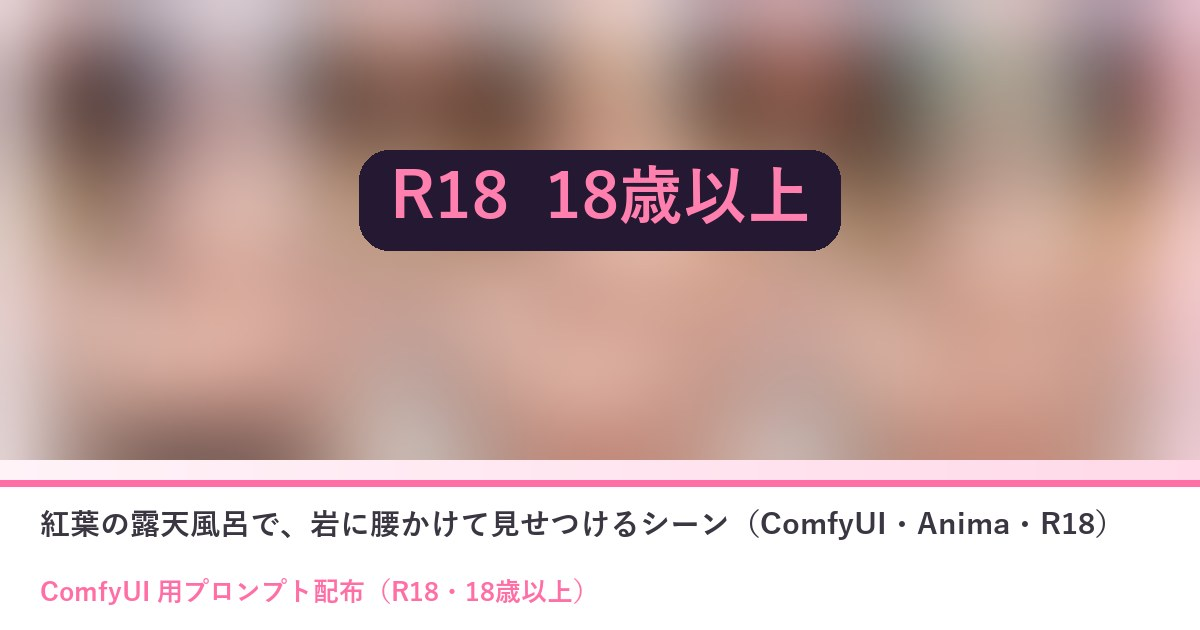
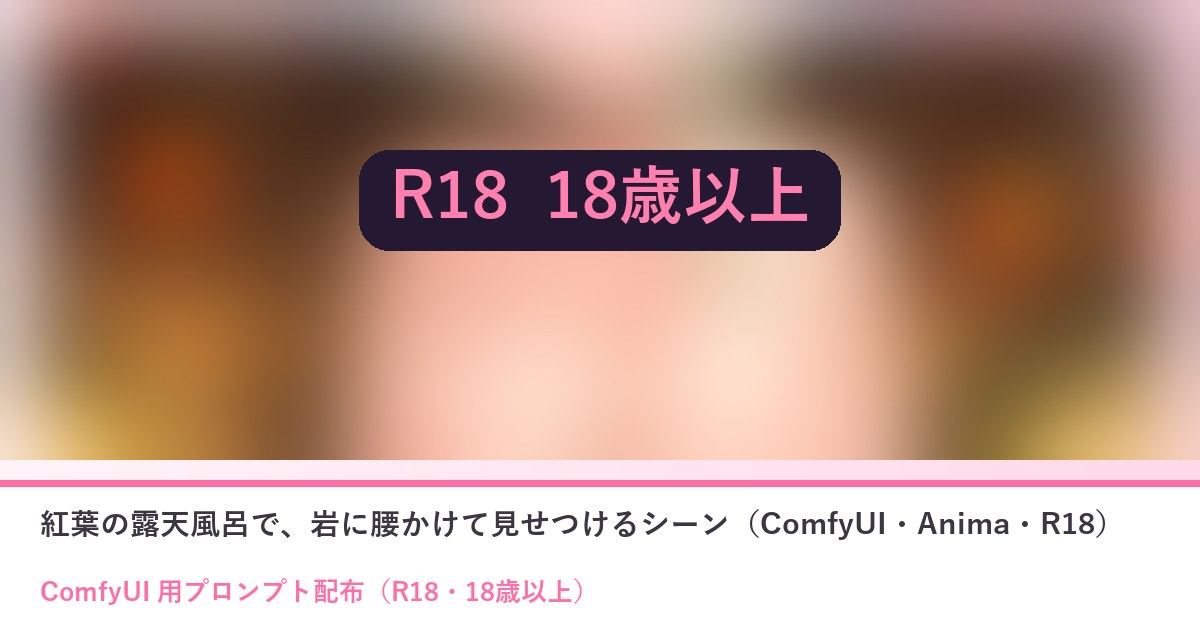
プロンプト配布 10/03 R18 を1枚・LoRA あり／なしに作り直し

diff --git a/prompts/2026-10-03-comfy-r18-qmvb9yul.html b/prompts/2026-10-03-comfy-r18-qmvb9yul.html
@@ -68,15 +68,17 @@
 @media(max-width:560px){.ps-ba{grid-template-columns:1fr}.ps-ba .arr{transform:rotate(90deg);text-align:center}.ps-vars,.ps-vars tbody,.ps-vars tr,.ps-vars th,.ps-vars td{display:block;width:auto;white-space:normal}.ps-vars tr:first-child{display:none}.ps-vars tr{border-bottom:1px solid var(--ps-line);padding:4px 0}.ps-vars th,.ps-vars td{border:0;padding:6px 12px}}
 .ps{overflow-wrap:anywhere}.ps-vars td,.ps-vars th{overflow-wrap:anywhere}.ps img{max-width:100%}
 </style>
-<!--ps-meta {"date": "2026-10-03", "title": "紅葉の露天風呂で、岩に腰かけて見せつけるシーン（ComfyUI・Anima・R18）", "kind": "comfy", "nsfw": true, "summary": "紅葉の露天風呂で、岩に腰かけて恥ずかしそうに見せてくれる夜の一枚（R18）。貼るだけで作れます。", "thumb": ""}-->
+<!--ps-meta {"date": "2026-10-03", "title": "紅葉の露天風呂で、岩に腰かけて見せつけるシーン（ComfyUI・Anima・R18）", "kind": "comfy", "nsfw": true, "summary": "紅葉の露天風呂で、岩に腰かけて恥ずかしそうに見せてくれる夜の一枚（R18）。LoRA あり／なしの2通り。", "thumb": ""}-->
 </head>
 <body>
 <div id="psgate" style="position:fixed;inset:0;z-index:50;background:rgba(36,24,50,.96);display:flex;align-items:center;justify-content:center;padding:20px"><div class="door" style="max-width:420px;background:#241832;color:#f6ecfa"><h2>ここから先は成人向けです</h2><p>18歳未満の方、苦手な方は開けずに戻ってください。</p><button class="gate-btn" id="psopen" type="button">18歳以上です</button></div></div><script>(function(){var g=document.getElementById('psgate');try{if(localStorage.getItem('hn_gate')==='1'){g.remove();return;}}catch(e){}document.getElementById('psopen').addEventListener('click',function(){try{localStorage.setItem('hn_gate','1');}catch(e){}g.remove();});})();</script><div class="sky"></div>
 <main class="wrap">
 <section class="sec"><div class="sec-head"><h2>紅葉の露天風呂で、岩に腰かけて見せつけるシーン（ComfyUI・Anima・R18）</h2><p>ひみつの眠り姫のプロンプト配布</p></div>
-<div class="ps"><p><span class="ps-badge">ComfyUI 用</span><span class="ps-badge">R18</span><span class="ps-badge">2026-10-03</span></p><p class="ps-lead">紅葉の舞う夜の露天風呂。湯けむりと灯籠の明かりの中、岩に腰かけて両手を膝に置き、恥ずかしそうに頬を染めながら脚をひらいて全部見せてくれる……濡れた肌がつやつや光る、いけないお風呂のシーンのプロンプトです（18歳以上の方だけ）。オリキャラがいなくても、そのまま貼るだけで綺麗な女の子で出ます。自分のキャラにしたいときは、1行目の見た目だけ書き換えてください。</p><nav class="ps-toc" aria-label="目次"><p>📑 目次</p><ol><li><a href="#sec1">3人のひそひそ話（R18）</a></li><li><a href="#sec2">使い方（3ステップ）</a></li><li><a href="#sec3">プロンプト</a></li><li><a href="#sec4">必要なもの（ComfyUI）</a></li><li><a href="#sec5">メモ</a></li><li><a href="#sec6">配布ルール</a></li><li><a href="#sec7">バックナンバー</a></li></ol></nav><div class="ps-r18"><b>🔞 18歳未満の方は閲覧・使用できません。</b><br>非合意の表現・幼く見える人物の性的な表現には使わないでください。このページには作例の絵を置いていません（文字のプロンプトだけです）。</div><h2 id="sec1">3人のひそひそ話（R18）</h2><div class="ps-chat"><div class="ic">ティ</div><div><div class="who">ティルナ</div><div class="bub">ねえねえ、紅葉の露天風呂で、岩に座ったまま脚をひらいて……恥ずかしそうに笑いながら、ぜんぶ見せてくれてるよ</div></div></div><div class="ps-chat r"><div class="ic">セフ</div><div><div class="who">セフィリア</div><div class="bub">湯けむりで濡れた肌が灯籠の明かりにつやつやと光って、脚のあいだまでとろりと濡れておりますね</div></div></div><div class="ps-chat r"><div class="ic">リリ</div><div><div class="who">リリア</div><div class="bub">1行目の髪の色を書き換えるだけで、金髪の三つ編みにも、黒髪のショートにもなりますの。オリキャラがいなくても、そのままで綺麗に出ますわ</div></div></div><div class="ps-chat"><div class="ic">ティ</div><div><div class="who">ティルナ</div><div class="bub">両手はお膝の上だから、隠したくても隠せないの……ほっぺ真っ赤なのに、目はそらさないんだよ〜</div></div></div><div class="ps-chat r"><div class="ic">セフ</div><div><div class="who">セフィリア</div><div class="bub">ひとりきりの場面でございます。ネガティブの male と penis は、消さずにそのままで</div></div></div><div class="ps-chat r"><div class="ic">リリ</div><div><div class="who">リリア</div><div class="bub">秋の夜長のお楽しみに、どうぞ。18歳以上の方だけの秘密のお風呂ですわ</div></div></div><h2 id="sec2">使い方（3ステップ）</h2><ol class="ps-steps"><li>ComfyUI で Anima のモデルを読み、基本の画像生成（テキストから画像）の画面にする</li><li>下のポジティブとネガティブをワンタップでコピーして貼る（自分のキャラにするなら1行目だけ書き換える）</li><li>「推奨値」の大きさ・steps・CFG にして生成する（できれば 1.5 倍の hires fix も）</li></ol><h2 id="sec3">プロンプト</h2><div class="ps-note" style="margin-bottom:12px"><b>変えるのは1行目（色の付いた行）だけ</b><ul><li>1行目＝キャラの見た目（髪の色・髪型・目の色など）。自分のキャラの特徴に書き換えてね</li><li>オリキャラがいない人は、<b>そのまま</b>コピーして使えばOK（作例の女の子で出ます）</li><li>自分のキャラの LoRA がある人は、1行目に LoRA のトリガー語を入れてね</li><li>2行目から下（シーン）と、ネガティブプロンプトは変えずにそのまま</li><li>🚫 版権キャラの名前・版権キャラの LoRA を入れて使うのは固く禁止です（下の「配布ルール」）</li></ul></div><div class="ps-box"><button class="ps-copy" type="button" data-target="ps-prompt">📋 ワンタップでコピー</button><p style="margin:0 0 8px;font-size:.82rem;color:var(--ps-a)">ポジティブプロンプト</p><pre><mark class="ps-in" data-key="キャラの行">1girl, solo, long hair, wavy hair, silver hair, purple eyes</mark>
-masterpiece, best quality, score_7, explicit, nsfw, completely nude, sitting, on rock, spread legs, hands on own knees, pussy, pussy juice, nipples, smile, embarrassed, blush, looking at viewer, wet, wet hair, wet skin, shiny skin, sweat, steam, onsen, outdoor bath, rock, hot spring water, autumn leaves, maple leaves, falling leaves, night, lantern, light particles, full body, from front, depth of field, detailed background, cinematic lighting</pre><textarea class="ps-copyarea" id="ps-prompt" readonly aria-hidden="true" tabindex="-1">1girl, solo, long hair, wavy hair, silver hair, purple eyes
-masterpiece, best quality, score_7, explicit, nsfw, completely nude, sitting, on rock, spread legs, hands on own knees, pussy, pussy juice, nipples, smile, embarrassed, blush, looking at viewer, wet, wet hair, wet skin, shiny skin, sweat, steam, onsen, outdoor bath, rock, hot spring water, autumn leaves, maple leaves, falling leaves, night, lantern, light particles, full body, from front, depth of field, detailed background, cinematic lighting</textarea></div><div style="height:12px"></div><div class="ps-box"><button class="ps-copy" type="button" data-target="ps-negative">📋 ワンタップでコピー</button><p style="margin:0 0 8px;font-size:.82rem;color:var(--ps-a)">ネガティブプロンプト</p><pre>worst quality, low quality, lowres, bad anatomy, bad hands, extra fingers, missing fingers, fused fingers, blurry, jpeg artifacts, text, watermark, signature, logo, extra person, multiple girls, cropped, out of frame, male, penis, sad, crying, japanese text, chinese text, korean text, kanji, hiragana, katakana, calligraphy</pre><textarea class="ps-copyarea" id="ps-negative" readonly aria-hidden="true" tabindex="-1">worst quality, low quality, lowres, bad anatomy, bad hands, extra fingers, missing fingers, fused fingers, blurry, jpeg artifacts, text, watermark, signature, logo, extra person, multiple girls, cropped, out of frame, male, penis, sad, crying, japanese text, chinese text, korean text, kanji, hiragana, katakana, calligraphy</textarea></div><h2 id="sec4">必要なもの（ComfyUI）</h2><div class="ps-note">🧩 <b>カスタムノードは使っていません</b>。LoRA も要りません。ComfyUI の基本の画像生成（テキストから画像）に、ポジティブ・ネガティブを貼って、下の推奨値にするだけです。</div><table class="ps-vars" style="margin-top:12px"><tr><th>モデル</th><th>ファイル</th><th>置き場</th></tr><tr><td>Anima 系のモデル</td><td>PrismPalette_ANIMA_v1 など好きな Anima</td><td><code>models/diffusion_models</code></td></tr><tr><td>テキストエンコーダ（Anima 用）</td><td>qwen_3_06b_base.safetensors</td><td><code>models/text_encoders</code></td></tr><tr><td>VAE（Anima 用）</td><td>qwen_image_vae.safetensors</td><td><code>models/vae</code></td></tr></table><h2>推奨値</h2><table class="ps-vars"><tr><th>大きさ</th><td colspan="2">864×1536（縦長＝顔から湯に浸かった足先まで一枚に入る）</td></tr><tr><th>steps</th><td colspan="2">30</td></tr><tr><th>CFG</th><td colspan="2">4.5</td></tr><tr><th>sampler</th><td colspan="2">er_sde</td></tr><tr><th>scheduler</th><td colspan="2">beta</td></tr><tr><th>hires fix（任意）</th><td colspan="2">1.5 倍に拡大して denoise 0.4・同じ steps と CFG（作例はこれ）</td></tr><tr><th>LoRA</th><td colspan="2">要りません（自分のキャラの LoRA があれば使ってOK）</td></tr></table><h2 id="sec5">メモ</h2><ul class="ps-rules"><li>1行目には見た目だけを書いてください（髪の色・長さ・髪型・髪飾り・目の色など）。お風呂・紅葉・灯籠は2行目からに入っています。</li><li>ひとりの場面です。ネガティブの male, penis は消さないでください（相手が出てきてしまいます）。</li><li>手は膝の上に置く形にしてあるので、くずれにくくなっています。くずれたら seed を変えて何枚か焼いてください。</li><li>SNS に投稿するときは、そのサービスの決まりどおりモザイクやラベルを付けてください（作例はモザイク済みのものだけ見せています）。</li></ul><h2 id="sec6">配布ルール</h2><ul class="ps-rules"><li>⭕ プロンプトの改変は自由です。</li><li>⭕ 生成した画像は SNS に投稿して大丈夫です。</li><li>❌ プロンプト文そのものの転載・再配布・販売はしないでください。</li><li>❌ 自作のプロンプトだと名乗ることはやめてください。</li><li>❌ このページの作例画像の無断転載はしないでください。</li><li class="ps-rights">🚫 <b>アニメ・漫画・ゲームなどの版権キャラクター（著作権・商標のあるキャラ）、他の人のキャラクターやイラスト、実在の人物の写真を添付画像にして使うことは固く禁止します。</b>版権キャラの名前や、版権キャラの LoRA を入れて使うことも禁止です。</li><li>✅ 添付してよいのは、<b>自分で作ったキャラクター・自分が権利を持つ画像</b>（または権利者から使ってよいと言われた画像）だけです。</li><li>⚠ 生成した画像の使い方（投稿・公開など）は、使った人の責任でお願いします。権利の問題が起きても、配布者は責任を負えません。</li><li>💌 使ったら <b>#眠り姫NSFWプロンプト</b> を付けて見せてくれたら、とても嬉しいです（任意です）。</li></ul><h2 id="sec7">バックナンバー</h2><div class="ps-note">📚 これまでの配布は <a href="index.html"><b>バックナンバー</b></a> にまとめてあります（作例の絵と内容が一覧で見られます）。お友だちに教えるときは、バックナンバーのページの URL を送ればOKです。</div></div>
+<div class="ps"><p><span class="ps-badge">ComfyUI 用</span><span class="ps-badge">R18</span><span class="ps-badge">2026-10-03</span></p><p class="ps-lead">紅葉の舞う夜の露天風呂。湯けむりと灯籠の明かりの中、岩に腰かけて両手を膝に置き、恥ずかしそうに頬を染めながら脚をひらいて全部見せてくれる……濡れた肌がつやつや光る、いけないお風呂のシーンのプロンプトです（18歳以上の方だけ）。LoRA が無くても、A をそのまま貼るだけで綺麗な女の子で出ます。自分のキャラの LoRA を持っている人は B をどうぞ。</p><nav class="ps-toc" aria-label="目次"><p>📑 目次</p><ol><li><a href="#sec1">3人のひそひそ話（R18）</a></li><li><a href="#sec2">使い方（3ステップ）</a></li><li><a href="#sec3">プロンプト</a></li><li><a href="#sec4">必要なもの（ComfyUI）</a></li><li><a href="#sec5">メモ</a></li><li><a href="#sec6">配布ルール</a></li></ol></nav><div class="ps-r18"><b>🔞 18歳未満の方は閲覧・使用できません。</b><br>非合意の表現・幼く見える人物の性的な表現には使わないでください。このページには作例の絵を置いていません（文字のプロンプトだけです）。</div><h2 id="sec1">3人のひそひそ話（R18）</h2><div class="ps-chat"><div class="ic">ティ</div><div><div class="who">ティルナ</div><div class="bub">えへへ……紅葉の露天風呂で、岩に座ったまま脚をひらいて、ぜんぶ見せちゃってるの……ほっぺ真っ赤だよ〜</div></div></div><div class="ps-chat r"><div class="ic">セフ</div><div><div class="who">セフィリア</div><div class="bub">湯けむりで濡れた肌が灯籠の明かりにつやつやと光って、脚のあいだまでとろりと濡れておりますね</div></div></div><div class="ps-chat r"><div class="ic">リリ</div><div><div class="who">リリア</div><div class="bub">LoRA が無い方は A をそのまま貼るだけですわ。1行目の髪の色を変えれば、ご自分の子にも近づけられますの</div></div></div><div class="ps-chat"><div class="ic">ティ</div><div><div class="who">ティルナ</div><div class="bub">LoRA がある人は B だよ！ 1行目の your_lora_trigger を自分のトリガー語にするだけ！</div></div></div><div class="ps-chat r"><div class="ic">セフ</div><div><div class="who">セフィリア</div><div class="bub">ひとりきりの場面でございます。ネガティブの male と penis は、消さずにそのままで</div></div></div><div class="ps-chat r"><div class="ic">リリ</div><div><div class="who">リリア</div><div class="bub">秋の夜長のお楽しみに、どうぞ。18歳以上の方だけの秘密のお風呂ですわ</div></div></div><h2 id="sec2">使い方（3ステップ）</h2><ol class="ps-steps"><li>ComfyUI で Anima のモデルを読み、基本の画像生成（テキストから画像）の画面にする</li><li>下の A（LoRA なし）か B（LoRA あり）のポジティブと、ネガティブをワンタップでコピーして貼る</li><li>「推奨値」の大きさ・steps・CFG にして生成する（できれば 1.5 倍の hires fix も）</li></ol><h2 id="sec3">プロンプト</h2><div class="ps-note" style="margin-bottom:12px"><b>変えるのは1行目（色の付いた行）だけ</b><ul><li>使うプロンプトは2通り＝<b>A. LoRA を持っていない人</b>／<b>B. 自分のキャラの LoRA を持っている人</b>。どちらも丸ごとコピーして貼るだけ</li><li>A は<b>そのまま</b>でも綺麗な女の子で出ます。自分のキャラにするなら1行目の髪の色・髪型・目の色を書き換えるだけ</li><li>B は1行目の <code>your_lora_trigger</code> を自分の LoRA のトリガー語に置きかえるだけ（LoRA の強さは下の表）</li><li>2行目から下（シーン）と、ネガティブプロンプトは変えずにそのまま</li><li>🚫 版権キャラの名前・版権キャラの LoRA を入れて使うのは固く禁止です（下の「配布ルール」）</li></ul></div><h3 style="margin:14px 0 8px">A. LoRA を持っていない人（そのままでもOK）</h3><div class="ps-box"><button class="ps-copy" type="button" data-target="ps-prompt">📋 ワンタップでコピー</button><p style="margin:0 0 8px;font-size:.82rem;color:var(--ps-a)">ポジティブプロンプト</p><pre><mark class="ps-in" data-key="キャラの行">1girl, solo, medium hair, light green hair, pink streaks, green eyes</mark>
+masterpiece, best quality, score_7, explicit, full body, straight-on, looking at viewer, smile, embarrassed, blush, sitting, on rock, spread legs, hands on own knees, completely nude, nipples, pussy, pussy juice, wet, wet hair, wet skin, shiny skin, sweat, steam, onsen, rock, water, autumn leaves, maple leaves, falling leaves, night, lantern, light particles, warm colors, hair up, hair flower, hair stick, earrings, choker, bracelet, anklet, barefoot, towel, basket, petals, red ribbon, excessive pussy juice, depth of field</pre><textarea class="ps-copyarea" id="ps-prompt" readonly aria-hidden="true" tabindex="-1">1girl, solo, medium hair, light green hair, pink streaks, green eyes
+masterpiece, best quality, score_7, explicit, full body, straight-on, looking at viewer, smile, embarrassed, blush, sitting, on rock, spread legs, hands on own knees, completely nude, nipples, pussy, pussy juice, wet, wet hair, wet skin, shiny skin, sweat, steam, onsen, rock, water, autumn leaves, maple leaves, falling leaves, night, lantern, light particles, warm colors, hair up, hair flower, hair stick, earrings, choker, bracelet, anklet, barefoot, towel, basket, petals, red ribbon, excessive pussy juice, depth of field</textarea></div><h3 style="margin:18px 0 8px">B. 自分のキャラの LoRA を持っている人</h3><div class="ps-box"><button class="ps-copy" type="button" data-target="ps-prompt-lora">📋 ワンタップでコピー</button><p style="margin:0 0 8px;font-size:.82rem;color:var(--ps-a)">ポジティブプロンプト（LoRA 用）</p><pre><mark class="ps-in" data-key="キャラの行">1girl, solo, your_lora_trigger</mark>
+masterpiece, best quality, score_7, explicit, full body, straight-on, looking at viewer, smile, embarrassed, blush, sitting, on rock, spread legs, hands on own knees, completely nude, nipples, pussy, pussy juice, wet, wet hair, wet skin, shiny skin, sweat, steam, onsen, rock, water, autumn leaves, maple leaves, falling leaves, night, lantern, light particles, warm colors, hair up, hair flower, hair stick, earrings, choker, bracelet, anklet, barefoot, towel, basket, petals, red ribbon, excessive pussy juice, depth of field</pre><textarea class="ps-copyarea" id="ps-prompt-lora" readonly aria-hidden="true" tabindex="-1">1girl, solo, your_lora_trigger
+masterpiece, best quality, score_7, explicit, full body, straight-on, looking at viewer, smile, embarrassed, blush, sitting, on rock, spread legs, hands on own knees, completely nude, nipples, pussy, pussy juice, wet, wet hair, wet skin, shiny skin, sweat, steam, onsen, rock, water, autumn leaves, maple leaves, falling leaves, night, lantern, light particles, warm colors, hair up, hair flower, hair stick, earrings, choker, bracelet, anklet, barefoot, towel, basket, petals, red ribbon, excessive pussy juice, depth of field</textarea></div><table class="ps-vars" style="margin-top:10px"><tr><th>LoRA のつなぎ方</th><td colspan="2">Load Diffusion Model（Anima）のうしろに LoraLoaderModelOnly を1つ足す（CLIP にはつながない）</td></tr><tr><th>LoRA の強さ（strength_model）</th><td colspan="2">0.8〜0.9（作例は 0.85）</td></tr><tr><th>1行目</th><td colspan="2">your_lora_trigger を自分の LoRA のトリガー語に置きかえる（髪や目の色は LoRA が覚えているので書かなくてOK）</td></tr></table><p style="font-size:.85rem;margin:10px 0 0">ネガティブプロンプトは A・B 共通（下）です。</p><div style="height:12px"></div><div class="ps-box"><button class="ps-copy" type="button" data-target="ps-negative">📋 ワンタップでコピー</button><p style="margin:0 0 8px;font-size:.82rem;color:var(--ps-a)">ネガティブプロンプト</p><pre>worst quality, low quality, lowres, bad anatomy, bad hands, extra fingers, missing fingers, fused fingers, blurry, jpeg artifacts, text, watermark, signature, logo, extra person, multiple girls, cropped, out of frame, male, penis, japanese text, chinese text, korean text, kanji, hiragana, katakana, calligraphy</pre><textarea class="ps-copyarea" id="ps-negative" readonly aria-hidden="true" tabindex="-1">worst quality, low quality, lowres, bad anatomy, bad hands, extra fingers, missing fingers, fused fingers, blurry, jpeg artifacts, text, watermark, signature, logo, extra person, multiple girls, cropped, out of frame, male, penis, japanese text, chinese text, korean text, kanji, hiragana, katakana, calligraphy</textarea></div><h2 id="sec4">必要なもの（ComfyUI）</h2><div class="ps-note">🧩 <b>カスタムノードは使っていません</b>。LoRA が無くても大丈夫（A のプロンプト）。ComfyUI の基本の画像生成（テキストから画像）に、ポジティブ・ネガティブを貼って、下の推奨値にするだけです。LoRA を使う人は「LoraLoaderModelOnly」を1つ足すだけ（B のプロンプト）。</div><table class="ps-vars" style="margin-top:12px"><tr><th>モデル</th><th>ファイル</th><th>置き場</th></tr><tr><td>Anima 系のモデル</td><td>PrismPalette_ANIMA_v1 など好きな Anima</td><td><code>models/diffusion_models</code></td></tr><tr><td>テキストエンコーダ（Anima 用）</td><td>qwen_3_06b_base.safetensors</td><td><code>models/text_encoders</code></td></tr><tr><td>VAE（Anima 用）</td><td>qwen_image_vae.safetensors</td><td><code>models/vae</code></td></tr></table><h2>推奨値</h2><table class="ps-vars"><tr><th>大きさ</th><td colspan="2">864×1536（縦長＝顔から湯に浸かった足先まで一枚に入る）</td></tr><tr><th>steps</th><td colspan="2">30</td></tr><tr><th>CFG</th><td colspan="2">4.5</td></tr><tr><th>sampler</th><td colspan="2">er_sde</td></tr><tr><th>scheduler</th><td colspan="2">beta</td></tr><tr><th>hires fix（任意）</th><td colspan="2">1.5 倍に拡大して denoise 0.4・同じ steps と CFG（試し焼きはこれ）</td></tr><tr><th>LoRA</th><td colspan="2">無くてOK（A のプロンプト）。自分のキャラの LoRA があれば B のプロンプトで</td></tr></table><h2 id="sec5">メモ</h2><ul class="ps-rules"><li>A（LoRA なし）は1行目の髪の色・長さ・髪型・目の色を書き換えるだけで、自分のキャラに近づけられます。そのままでも綺麗な女の子で出ます（試し焼きで確かめてあります）。</li><li>B（LoRA あり）は1行目の your_lora_trigger を自分の LoRA のトリガー語にするだけ。髪や目の色は LoRA が覚えているので書かなくて大丈夫です。</li><li>ひとりの場面です。ネガティブの male, penis は消さないでください（相手が出てきてしまいます）。手は膝の上に置く形なので、くずれにくくなっています。</li><li>SNS に投稿するときは、そのサービスの決まりどおりモザイクやラベルを付けてください（作例はモザイク済みのものだけ見せています）。</li></ul><h2 id="sec6">配布ルール</h2><ul class="ps-rules"><li>⭕ プロンプトの改変は自由です。</li><li>⭕ 生成した画像は SNS に投稿して大丈夫です。</li><li>❌ プロンプト文そのものの転載・再配布・販売はしないでください。</li><li>❌ 自作のプロンプトだと名乗ることはやめてください。</li><li>❌ このページの作例画像の無断転載はしないでください。</li><li class="ps-rights">🚫 <b>アニメ・漫画・ゲームなどの版権キャラクター（著作権・商標のあるキャラ）、他の人のキャラクターやイラスト、実在の人物の写真を添付画像にして使うことは固く禁止します。</b>版権キャラの名前や、版権キャラの LoRA を入れて使うことも禁止です。</li><li>✅ 添付してよいのは、<b>自分で作ったキャラクター・自分が権利を持つ画像</b>（または権利者から使ってよいと言われた画像）だけです。</li><li>⚠ 生成した画像の使い方（投稿・公開など）は、使った人の責任でお願いします。権利の問題が起きても、配布者は責任を負えません。</li><li>💌 使ったら <b>#眠り姫NSFWプロンプト</b> を付けて見せてくれたら、とても嬉しいです（任意です）。</li></ul></div>
 <p style="text-align:center;margin:34px 0 0"><a class="gate-btn ghost" href="../index.html" style="color:var(--ink-dim);border-color:var(--line)">部屋に戻る</a></p>
 </section>
 </main>
